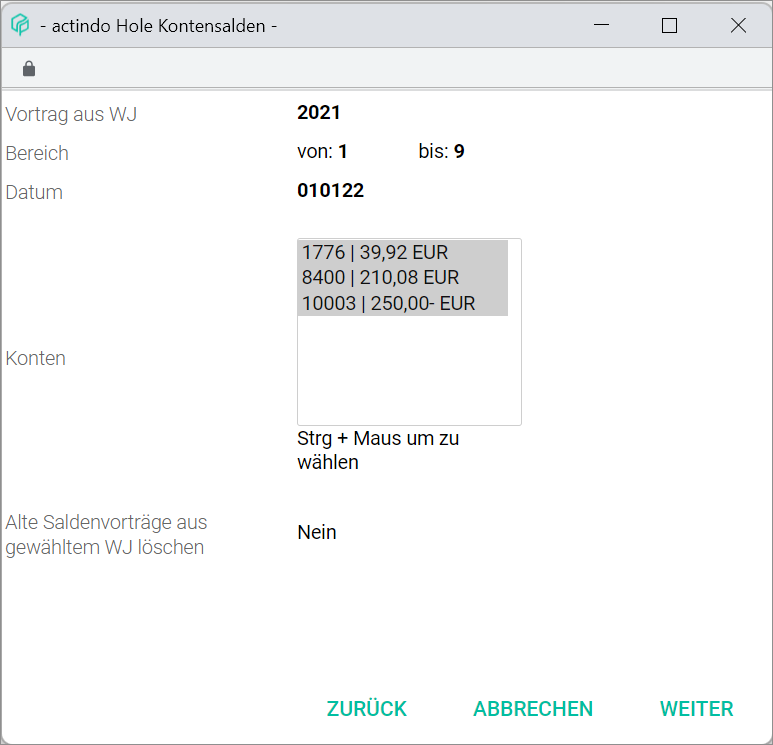
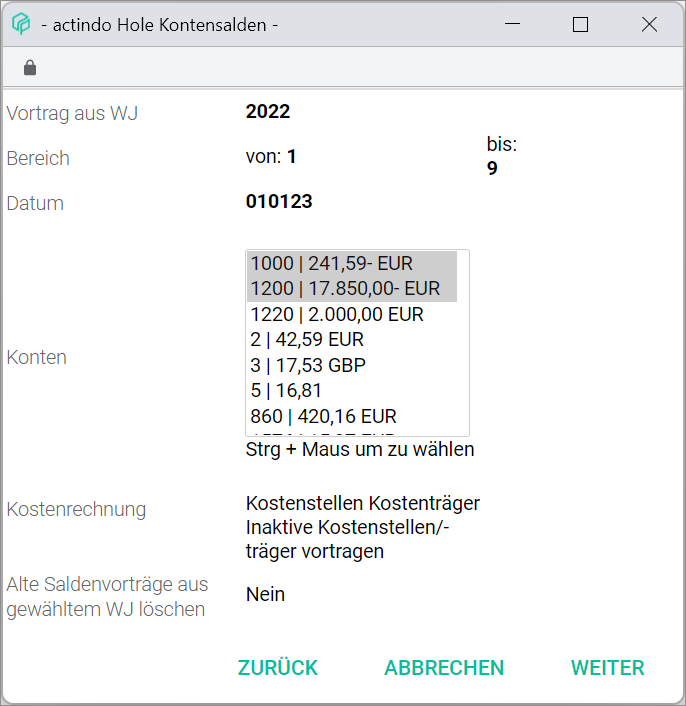
ACD-572
Content and screenshots corrected, Saldovortrag

diff --git a/RetailSuiteAccounting/Operation/11_CreateBalanceCarriedForward.md b/RetailSuiteAccounting/Operation/11_CreateBalanceCarriedForward.md
@@ -8,12 +8,12 @@ At the turn of the fiscal year, any outstanding balances must be carried forward
 
 By using the balance carry forward, outstanding account balances and open items can be transferred from one fiscal year to the next. This is possible for both personal accounts (debtors and creditors) and impersonal accounts (for example bank or tax accounts).
 
-Special journals are preconfigured in the system to carry balances and open items forward. For example, journal 98 contains all balances carried forward for debtors open items. These settings can be completely customized. For detailed information, see [User Interface Settings balance carried forward](../UserInterface/02h_BalanceCarriedForward.md).
+Special journals are preconfigured in the system to carry balances and open items forward. For example, journal 98 contains all balances carried forward for debtors open items. These settings can be completely customized. For detailed information, see [User Interface Settings Balance carried forward](../UserInterface/02h_BalanceCarriedForward.md).
 
 #### Prerequisites
 
-- A fiscal year has been selected, see [Select fiscal year](./01_SelectFiscalYear.md).
 - A new fiscal year has been created, see [Create a fiscal year](../Integration04_ManageFiscalYear.md#create-a-fiscal-year).
+- The new fiscal year has been selected, see [Select fiscal year](./01_SelectFiscalYear.md).
 - The balance carried forward function is configured, see [User Interface Settings Balance carried forward](../UserInterface/02h_BalanceCarriedForward.md).
 
 #### Procedure
@@ -30,21 +30,15 @@ A context menu is displayed.
 2. Click the *Balance carried forward...* menu entry in the context menu.     
   The *Balance carried forward: step 1* window is displayed.
 
-  ![Balance carried forward: step 1](../../Assets/Screenshots/RetailSuiteAccounting/Book/BalanceCarriedForward.png "[Balance carried forward: step 1]")
-
-  ![Balance carried forward: step 1](../../Assets/Screenshots/RetailSuiteAccounting/Book/BalanceCarriedForward02.png "[Balance carried forward: step 1]")
-
-[comment]: <> (Prüfen, woher/warum die Unterschiede. Zweites Bild offenbar bei EB-Werten angezeigt. Weitere Info notwendig.)
+  ![Balance carried forward: step 1](../../Assets/Screenshots/RetailSuiteAccounting/Book/BalanceCarriedForward01.png "[Balance carried forward: step 1]")
 
 3. Click the *Carry forward from FY* drop-down list and select the appropriate fiscal year. All available fiscal years prior to the currently selected fiscal year are displayed in the list.
 
 4. Click the *Range from - to* drop-down lists and select the account classes to be carried forward. The account classes as preconfigured in the *BALANCE CARRIED FORWARD* tab are displayed.
 
-5. If necessary, change the posting date in the *Posting date* field. By default, the first day of the next fiscal year is preselected.
+5. If necessary, change the posting date in the *Posting date* field. By default, the first day of the new fiscal year is preselected.
 
 6. If necessary, select the appropriate option(s) in the *Cost accounting* field.
-
-[comment]: <> (Unsicher, wann das vorkommt.)
 
 7. Select the *Delete old balances carried forward from selected FY* checkbox if necessary.
 
@@ -55,7 +49,6 @@ The *Retrieve account balances* window is displayed.
 
   ![Retrieve account balances](../../Assets/Screenshots/RetailSuiteAccounting/Book/RetrieveAccountBalances.png "[Retrieve account balances]")
 
-[comment]: <> (Neues Screenshot mit Kostenrechnung?)
 
 9. Select the account balances to be carried forward in the *Accounts* field.
 
@@ -63,6 +56,8 @@ The *Retrieve account balances* window is displayed.
 
 10. Click the [CONTINUE] button.  
 The *Carry balances forward* window is displayed. The pop-up window *Balance carried forward completed* is displayed. The selected balances have been carried forward.
+
+  ![Balance carried forward completed](../../Assets/Screenshots/RetailSuiteAccounting/Book/BalanceCarriedForwardCompleted.png "[Balance carried forward completed]")
 
 11. Click the [CLOSE] button.  
 The *Carry balances forward* window is closed.
